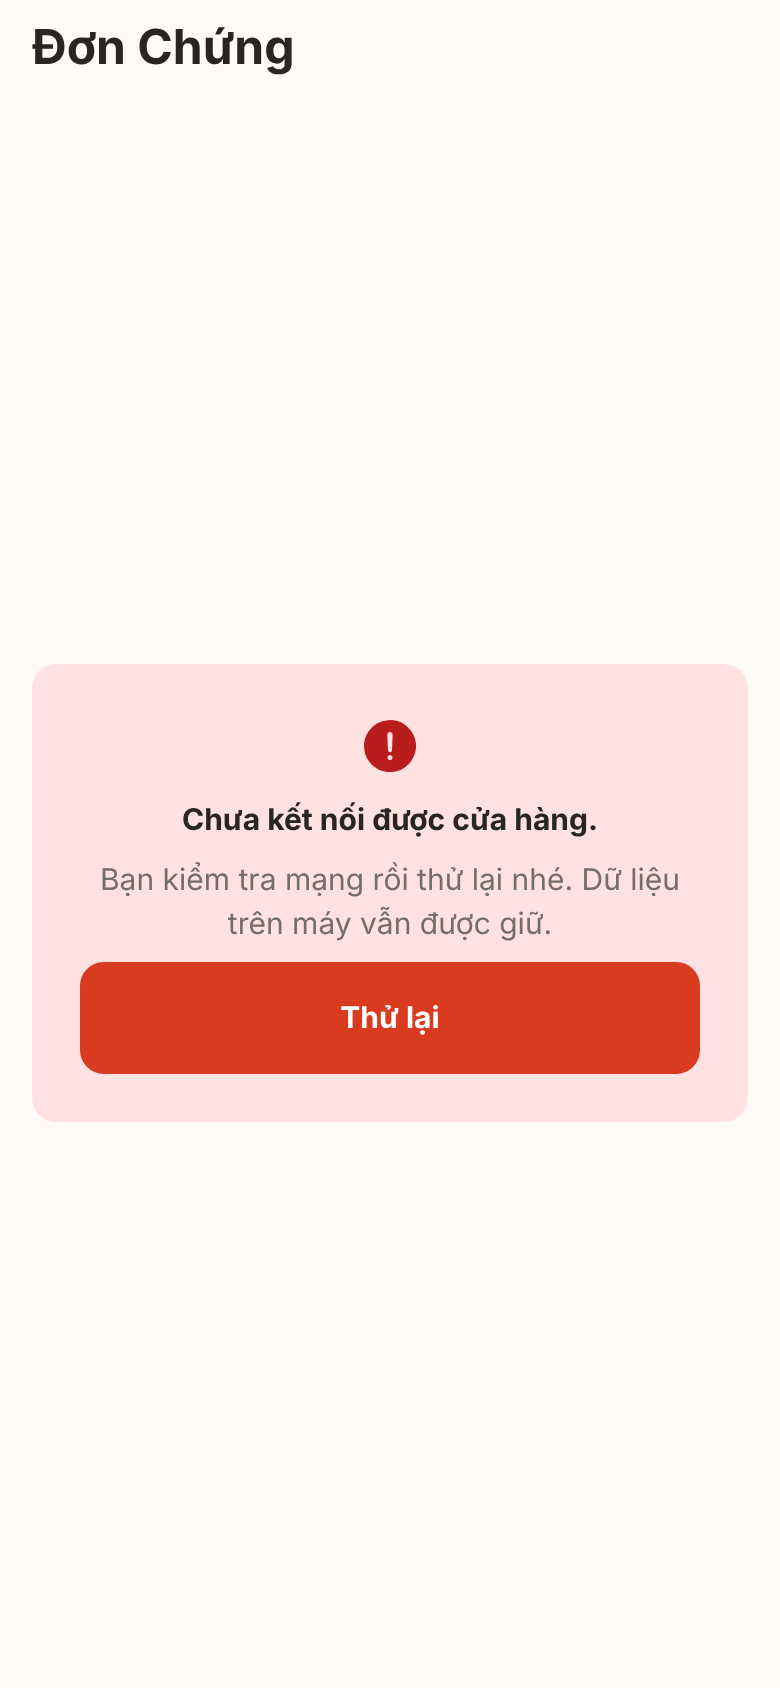
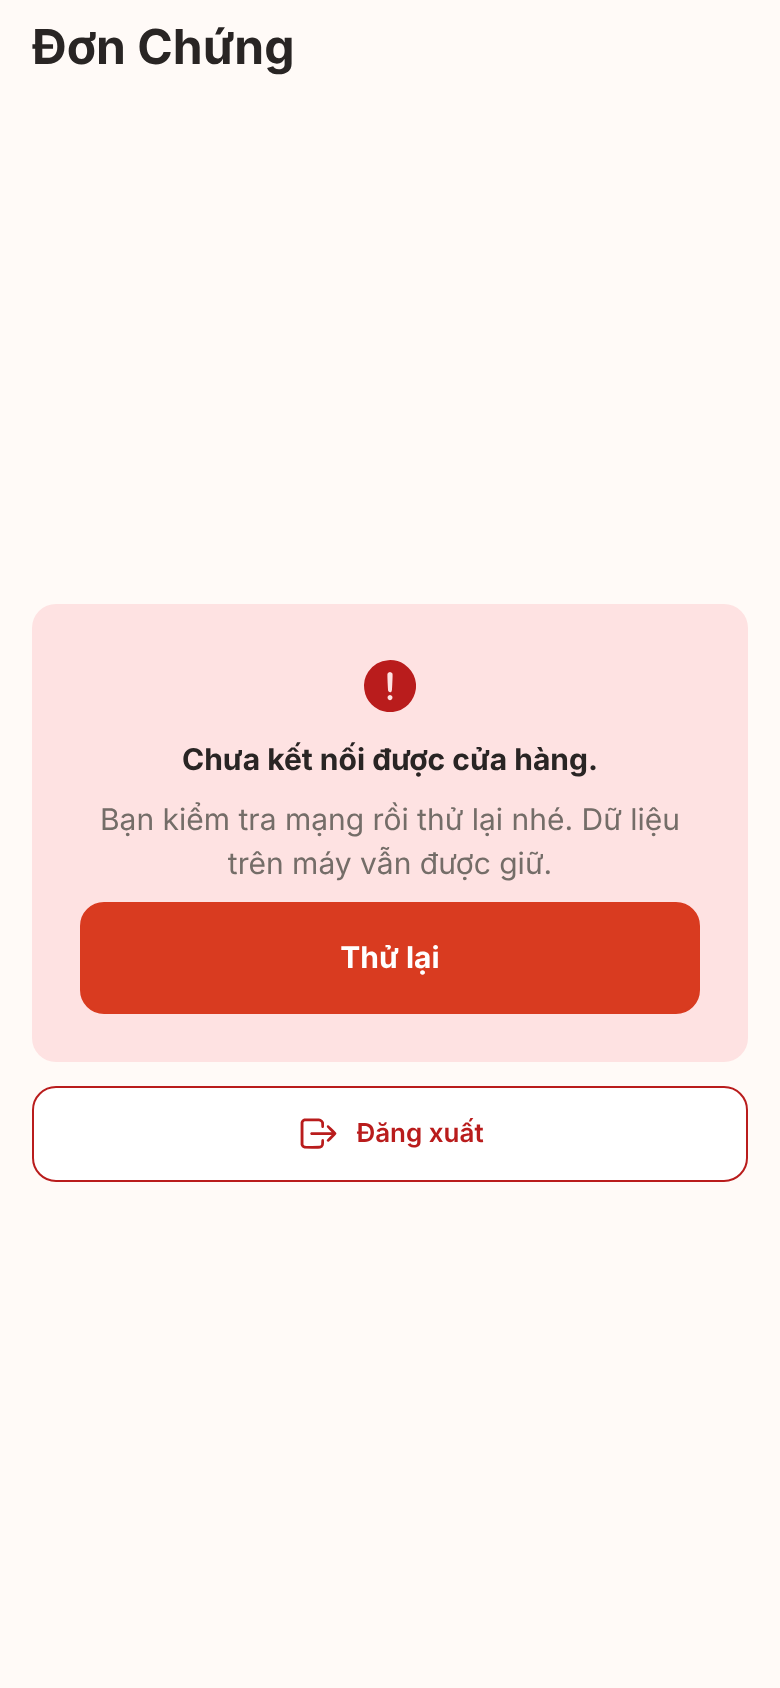
docs(session): V1-06 ảnh màn "Chưa kết nối được cửa hàng" có nút Đăng xuất
Claude-Session: https://claude.ai/code/session_01EqYbDgQebWwJDZZaEixKbZ

Changed region(s): [[0.0308, 0.3697, 0.9538, 0.6777]]

diff --git a/docs/assets/screens/v1-06-session-guard/README.md b/docs/assets/screens/v1-06-session-guard/README.md
@@ -1,6 +1,6 @@
 # Ảnh V1-06 session-guard (cổng phiên)
 
-**Ảnh bản web (react-native-web trong Chromium) với cổng giả, không phải iOS/Android; chưa kiểm chứng trên thiết bị.** Chụp 2026-10-30 bằng `node scripts/screens/capture.cjs --sizes all --source tmp/v1-06-shots` (Playwright, hệ số 2). Font, vùng an toàn, Back phần cứng, chữ lớn hệ thống khác thiết bị thật. 0 lỗi trang.
+**Ảnh bản web (react-native-web trong Chromium) với cổng giả, không phải iOS/Android; chưa kiểm chứng trên thiết bị.** Chụp 2026-10-30 bằng `node scripts/screens/capture.cjs --sizes all --source tmp/v1-06-shots` (ảnh 01 chụp lại sau review PR #49, nhánh nháp `tmp/v1-06-shots2` cùng thay đổi tạm) (Playwright, hệ số 2). Font, vùng an toàn, Back phần cứng, chữ lớn hệ thống khác thiết bị thật. 0 lỗi trang.
 
 **Thay đổi tạm (nhánh nháp cục bộ `tmp/v1-06-shots`, không commit vào PR, không đẩy):**
 
@@ -11,7 +11,7 @@ Trạng thái "chưa đăng nhập -> Chào mừng" và "chưa có cửa hàng -
 
 ## 1. Chưa kết nối được cửa hàng (offline lần đầu), mở `/quick-order`
 
-Không hiện Tạo đơn nhanh, không lưu được đơn dưới cửa hàng tạm. `/home` (nhóm tab) hiện **y hệt** ảnh này (không có thanh tab), nên không chụp riêng.
+Không hiện Tạo đơn nhanh, không lưu được đơn dưới cửa hàng tạm. Có **Thử lại** và **Đăng xuất** (sau review PR #49: luồng đăng xuất an toàn PER-21, vẫn hỏi xác nhận và chặn khi đang quay/còn tệp chưa đồng bộ; hộp thoại không chụp được bằng công cụ vì cần bấm, đã kiểm bằng test). Cũng hiện khi "Đang nạp" quá 15 giây. `/home` (nhóm tab) hiện **y hệt** ảnh này (không có thanh tab), nên không chụp riêng.
 
 | 320x568 | 360x800 | 390x844 |
 |---|---|---|
